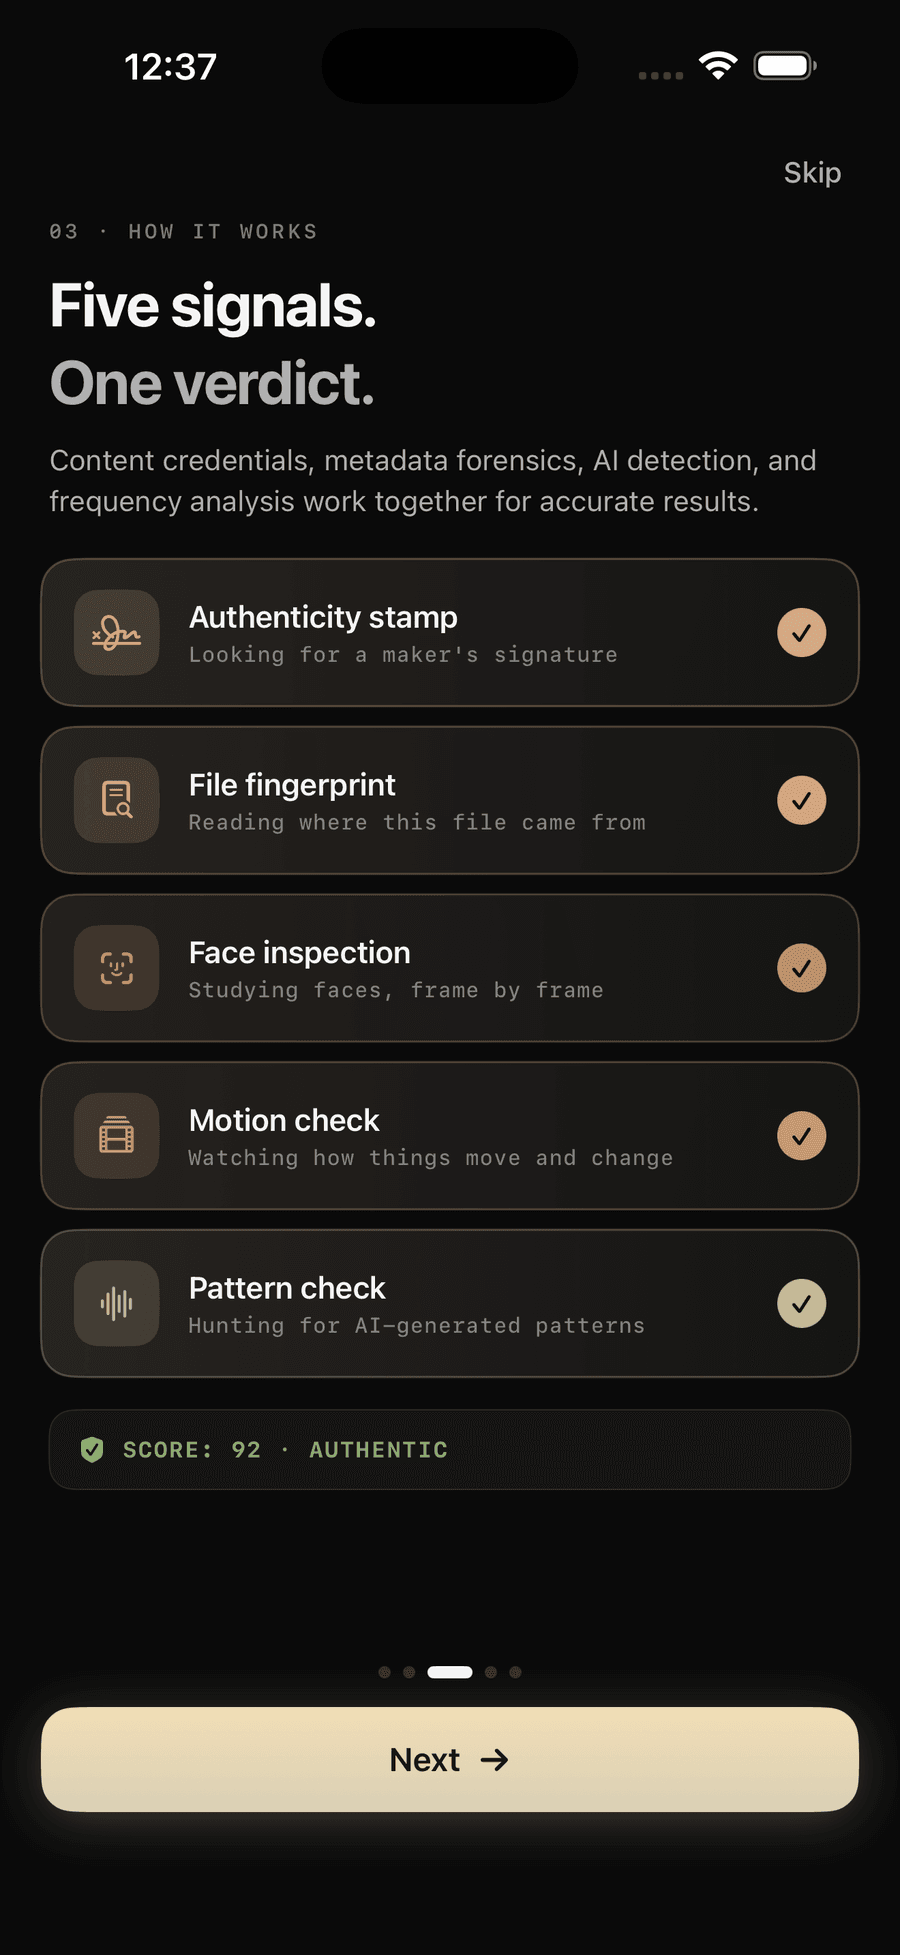
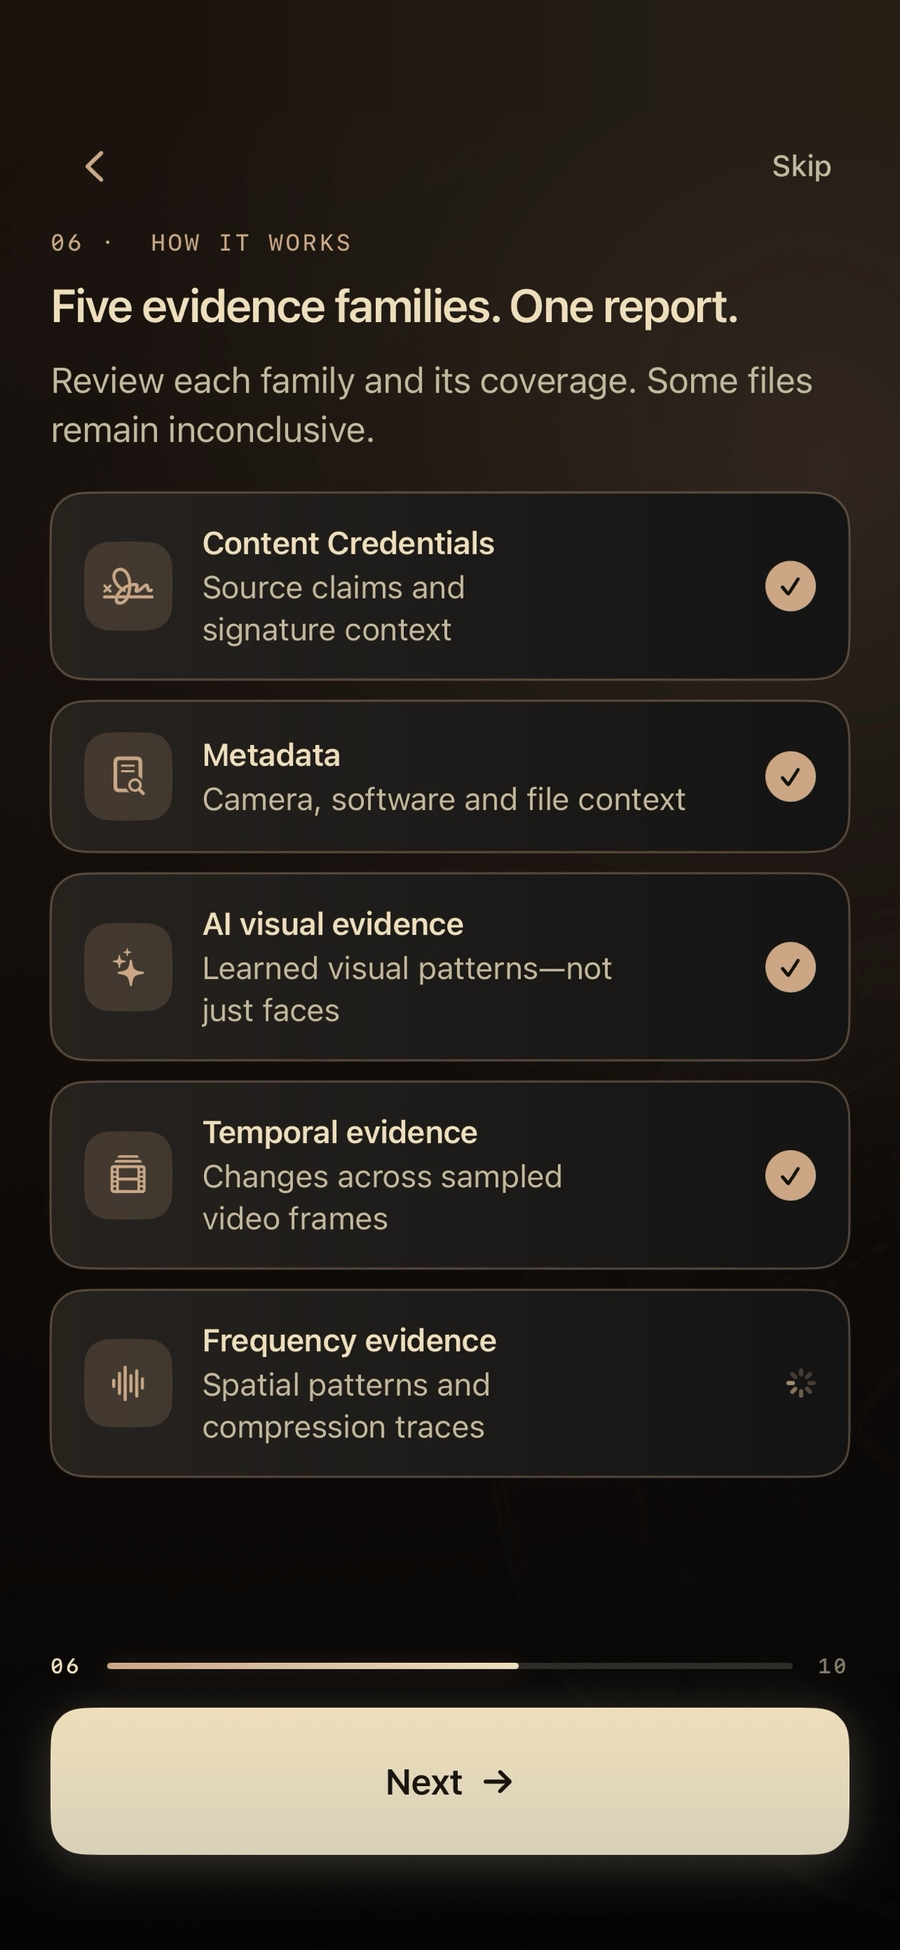
Show the current app on the landing page
The hero and the showcase showed 1.2-era screens. They now show the
current build:
- home with the document inspector;
- "Ask the file" onboarding;
- the Real-vs-AI comparison;
- the five evidence families;
- the forensic report with its layer breakdown;
- public link analysis.

The screenshots arrived without a status bar. That area is filled with
the screen's own background tone, so each matches the phone frame's
1290:2796 ratio instead of being cropped by object-fit. They are
progressive JPEGs (4:4:4, 66-101 KB each, smaller than the old palette
PNGs, without palette banding). New file names also bypass the 7-day
asset cache. signals.png, the blog's default share image, shows the new
evidence screen.

npm test (build + site verification) passes. At 1440 px and 390 px no
image is broken and there is no horizontal overflow.

Claude-Session: https://claude.ai/code/session_01H6VarrKRj1DrbLLJw3UA8i

diff --git a/index.html b/index.html
@@ -33,7 +33,7 @@
   <link rel="preconnect" href="https://fonts.gstatic.com" crossorigin />
   <link href="https://fonts.googleapis.com/css2?family=Geist:wght@400;500;600;700&family=Instrument+Serif:ital@0;1&family=JetBrains+Mono:wght@400;500&display=swap" rel="stylesheet" />
 
-  <link rel="preload" as="image" href="assets/app/home.png" fetchpriority="high" />
+  <link rel="preload" as="image" href="assets/app/home.jpg" fetchpriority="high" />
 
   <link rel="stylesheet" href="assets/site.css?v=18" />
 
@@ -260,7 +260,7 @@
           <div class="ph hero-ph" data-hero-ph>
             <span class="ph-beam" aria-hidden="true"><i></i></span>
             <div class="ph-scr">
-              <img src="assets/app/home.png" alt="Verifyco home screen" width="1290" height="2796" decoding="async" fetchpriority="high" />
+              <img src="assets/app/home.jpg" alt="Verifyco home screen" width="1290" height="2796" decoding="async" fetchpriority="high" />
               <div class="ph-scan" data-scan></div>
             </div>
           </div>
@@ -348,24 +348,24 @@
         </div>
 
         <div class="shelf" data-shelf>
-          <button type="button" class="shelf-item screen-trigger" data-rv data-screen-src="assets/app/onb-uap.png" data-screen-title="Forensic onboarding">
-            <div class="ph" data-speed="0.06"><div class="ph-scr"><img src="assets/app/onb-uap.png" alt="Verifyco onboarding" loading="lazy" decoding="async" width="1290" height="2796" /></div></div>
+          <button type="button" class="shelf-item screen-trigger" data-rv data-screen-src="assets/app/onboarding.jpg" data-screen-title="Forensic onboarding">
+            <div class="ph" data-speed="0.06"><div class="ph-scr"><img src="assets/app/onboarding.jpg" alt="Verifyco onboarding: ask the file what you want to know" loading="lazy" decoding="async" width="1290" height="2796" /></div></div>
             <span class="shelf-cap" data-i18n="showcase.cap.welcome">Onboarding</span>
           </button>
-          <button type="button" class="shelf-item screen-trigger" data-rv data-screen-src="assets/app/deepfake.png" data-screen-title="Verdict comparison">
-            <div class="ph" data-speed="-0.05"><div class="ph-scr"><img src="assets/app/deepfake.png" alt="Verdict comparison" loading="lazy" decoding="async" width="1290" height="2796" /></div></div>
+          <button type="button" class="shelf-item screen-trigger" data-rv data-screen-src="assets/app/verdict-ab.jpg" data-screen-title="Verdict comparison">
+            <div class="ph" data-speed="-0.05"><div class="ph-scr"><img src="assets/app/verdict-ab.jpg" alt="Real or AI comparison: appearance alone cannot establish where media came from" loading="lazy" decoding="async" width="1290" height="2796" /></div></div>
             <span class="shelf-cap" data-i18n="showcase.cap.deepfake">Verdict A/B</span>
           </button>
-          <button type="button" class="shelf-item screen-trigger" data-rv data-screen-src="assets/app/signals.png" data-screen-title="Signal pipeline">
-            <div class="ph" data-speed="0.04"><div class="ph-scr"><img src="assets/app/signals.png" alt="Signal pipeline" loading="lazy" decoding="async" width="1290" height="2796" /></div></div>
+          <button type="button" class="shelf-item screen-trigger" data-rv data-screen-src="assets/app/evidence.jpg" data-screen-title="Signal pipeline">
+            <div class="ph" data-speed="0.04"><div class="ph-scr"><img src="assets/app/evidence.jpg" alt="Five evidence families in one report" loading="lazy" decoding="async" width="1290" height="2796" /></div></div>
             <span class="shelf-cap" data-i18n="showcase.cap.signals">Signal pipeline</span>
           </button>
-          <button type="button" class="shelf-item screen-trigger" data-rv data-screen-src="assets/app/face.png" data-screen-title="Layer trace">
-            <div class="ph" data-speed="-0.07"><div class="ph-scr"><img src="assets/app/face.png" alt="Layer trace" loading="lazy" decoding="async" width="1290" height="2796" /></div></div>
+          <button type="button" class="shelf-item screen-trigger" data-rv data-screen-src="assets/app/report.jpg" data-screen-title="Layer trace">
+            <div class="ph" data-speed="-0.07"><div class="ph-scr"><img src="assets/app/report.jpg" alt="Forensic report with the layer breakdown and evidence coverage" loading="lazy" decoding="async" width="1290" height="2796" /></div></div>
             <span class="shelf-cap" data-i18n="showcase.cap.layer">Layer trace</span>
           </button>
-          <button type="button" class="shelf-item screen-trigger" data-rv data-screen-src="assets/app/url.png" data-screen-title="Link analysis">
-            <div class="ph" data-speed="0.05"><div class="ph-scr"><img src="assets/app/url.png" alt="Link analysis" loading="lazy" decoding="async" width="1290" height="2796" /></div></div>
+          <button type="button" class="shelf-item screen-trigger" data-rv data-screen-src="assets/app/link.jpg" data-screen-title="Link analysis">
+            <div class="ph" data-speed="0.05"><div class="ph-scr"><img src="assets/app/link.jpg" alt="Public link analysis for Instagram, TikTok, YouTube, X and Facebook" loading="lazy" decoding="async" width="1290" height="2796" /></div></div>
             <span class="shelf-cap" data-i18n="showcase.cap.url">Link analysis</span>
           </button>
         </div>
@@ -377,7 +377,7 @@
               <button type="button" class="screen-dialog-close" data-screen-close aria-label="Close preview">×</button>
             </div>
             <figure>
-              <img data-screen-image src="assets/app/onb-uap.png" alt="" width="1290" height="2796" />
+              <img data-screen-image src="assets/app/onboarding.jpg" alt="" width="1290" height="2796" />
               <figcaption id="screen-dialog-title" data-screen-caption>Forensic onboarding</figcaption>
             </figure>
           </div>
